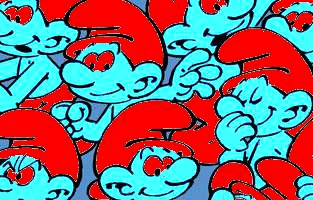
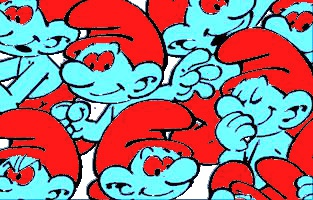
Add files via upload

diff --git a/影像處理/HW2/bin/hw2-2#03.py b/影像處理/HW2/bin/hw2-2#03.py
@@ -1,0 +1,84 @@
+# -*- coding: utf-8 -*-
+"""
+Created on Wed Oct 18 04:27:33 2017
+
+@author: 傳衛
+"""
+
+import numpy as np
+import cv2
+from matplotlib import pyplot as plt
+
+"""設置原始圖片名稱"""
+file_name = "blue.jpg"
+
+"""開啟圖片並讀取寬高"""
+src_pic = cv2.imread("blue.jpg")
+pic_w = src_pic.shape[1]
+pic_h = src_pic.shape[0]
+
+"""設置色彩取樣範圍  藍([0,40,0], [255,255,100])  白([200,200,200], [255,255,255])"""
+"""新版優化數值 並新增 back_mask 取樣範圍"""
+BGRrange = [([0,40,0], [255,255,100]),
+             ([190,190,180], [255,255,255]),
+             ([0,40,0], [185,135,100])]
+
+"""迴圈採樣 利用inRange函數 分別取出 藍色遮罩 與  白色遮罩"""
+index = 0
+for (lower, upper) in BGRrange:
+    
+    lower = np.array(lower, dtype="uint8")
+    upper = np.array(upper, dtype="uint8")
+    
+    if(index==0):
+        blue_mask = cv2.inRange(src_pic, lower, upper)
+    elif index==1 :
+        white_mask = cv2.inRange(src_pic, lower, upper)
+    elif index==2 :
+        back_mask = cv2.inRange(src_pic, lower, upper)
+    index+=1
+
+"""設置亮度線性變化  rate比率變化  plus固定變化"""
+bright_rate = 1
+bright_plus = 70
+
+"""
+以遮罩(mask)作為判斷依據 迴圈對判斷為true的向速做出變化
+對藍色做出亮度變化(預設比率增加)
+對白色做出轉變為紅色的變化
+"""
+for ih in range(0,pic_h):
+    for iw in range(0,pic_w):
+                
+        if white_mask[ih,iw] :
+            src_pic[ih,iw,0:2] = src_pic[ih,iw,0:2]/10
+            
+        elif abs(int(src_pic[ih,iw,0])- src_pic[ih,iw,1]) < 20 and abs(int(src_pic[ih,iw,0])- src_pic[ih,iw,2]) < 20 :
+            src_pic[ih,iw,0:2] = src_pic[ih,iw,0:2]/2
+            
+        if blue_mask[ih,iw] :
+            if ih+1 < pic_h and iw+1 < pic_w :
+                if back_mask[ih,iw] and back_mask[ih+1,iw] and back_mask[ih+1,iw+1] and back_mask[ih,iw+1]:
+                    src_pic[ih,iw] = 255
+                    
+                else:
+                    for i in range(0,3):
+                        c = int(src_pic[ih,iw,i])
+                        c = c*bright_rate+bright_plus
+                        if c > 255 :
+                            c = 255
+                        src_pic[ih,iw,i] = c
+"""
+顯示圖片
+按s儲存並覆蓋原圖
+按o儲存並另外輸出
+其他按鍵不動作
+最後關閉所有視窗
+"""
+cv2.imshow("output", src_pic)
+key = cv2.waitKey(0)
+if key == 115:
+    cv2.imwrite(file_name,src_pic)
+if key == 111:
+    cv2.imwrite("output.jpg",src_pic)
+cv2.destroyAllWindows()

diff --git a/影像處理/HW2/bin/hw2-1.py b/影像處理/HW2/bin/hw2-1.py
@@ -12,11 +12,13 @@ from matplotlib import pyplot as plt
 file_name = "blue.jpg"
 
 src_pic = cv2.imread("blue.jpg")
+cpy_pic = cv2.imread("blue.jpg")
 pic_w = src_pic.shape[1]
 pic_h = src_pic.shape[0]
 
 BGRrange = [([0,40,0], [255,255,100]),
-             ([200,200,200], [255,255,255])]
+             ([190,190,180], [255,255,255]),
+             ([0,40,0], [185,135,100])]
 
 index = 0
 for (lower, upper) in BGRrange:
@@ -26,13 +28,16 @@ for (lower, upper) in BGRrange:
     
     if(index==0):
         blue_mask = cv2.inRange(src_pic, lower, upper)
-    else :
+    elif index==1 :
         white_mask = cv2.inRange(src_pic, lower, upper)
+    elif index==2 :
+        back_mask = cv2.inRange(src_pic, lower, upper)
     index+=1
 
 cv2.imshow("src", src_pic)
 cv2.imshow("mask_b", blue_mask)
 cv2.imshow("mask_w", white_mask)
+cv2.imshow("mask_back", back_mask)
 cv2.waitKey(0)
 cv2.destroyAllWindows()
 
@@ -41,6 +46,7 @@ bright_plus = 0
 
 for ih in range(0,pic_h):
     for iw in range(0,pic_w):
+        
         if blue_mask[ih,iw] :
             for i in range(0,3):
                 c = int(src_pic[ih,iw,i])
@@ -48,13 +54,19 @@ for ih in range(0,pic_h):
                 if c > 255 :
                     c = 255
                 src_pic[ih,iw,i] = c
+                
         if white_mask[ih,iw] :
-            src_pic[ih,iw,0:2] = 0
+            src_pic[ih,iw,0:2] = src_pic[ih,iw,0:2]/10
+            
+        elif abs(int(src_pic[ih,iw,0])- src_pic[ih,iw,1]) < 20 and abs(int(src_pic[ih,iw,0])- src_pic[ih,iw,2]) < 20 :
+        #elif 160<abs(int(src_pic[ih,iw,0])/3+int(src_pic[ih,iw,1])/3+int(src_pic[ih,iw,2])/3) < 200 :
+            src_pic[ih,iw,0:2] = src_pic[ih,iw,0:2]/2
 
 cv2.imshow("output", src_pic)
+cv2.imshow("output-src", cpy_pic)
 key = cv2.waitKey(0)
-if key == 115:
-    cv2.imwrite(file_name,src_pic)
+'''if key == 115:
+    cv2.imwrite(file_name,src_pic)'''
 if key == 111:
     cv2.imwrite("output.jpg",src_pic)
 cv2.destroyAllWindows()
